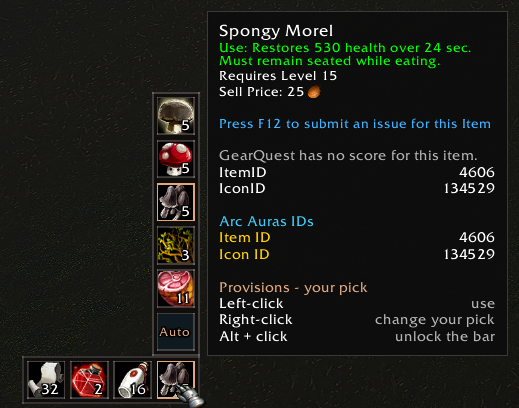
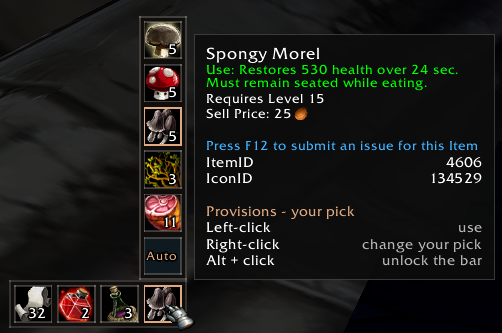
Cleaner item bar screenshot

diff --git a/CURSEFORGE.html b/CURSEFORGE.html
@@ -43,7 +43,7 @@
 <li>Choose which item types appear, plus icon size and grow direction</li>
 <li>Lock it or make it click-through. <strong>Alt + click</strong> unlocks it any time</li>
 </ul>
-<p style="text-align:center;"><img src="https://raw.githubusercontent.com/zmann85/Provisions/main/media/item-bar.png" alt="Item bar with the right-click list open" width="519"></p>
+<p style="text-align:center;"><img src="https://raw.githubusercontent.com/zmann85/Provisions/main/media/item-bar.png" alt="Item bar with the right-click list open" width="502"></p>
 <p style="text-align:center;"><em>The item bar, with the right-click list open to pick a specific mushroom.</em></p>
 
 <hr>
